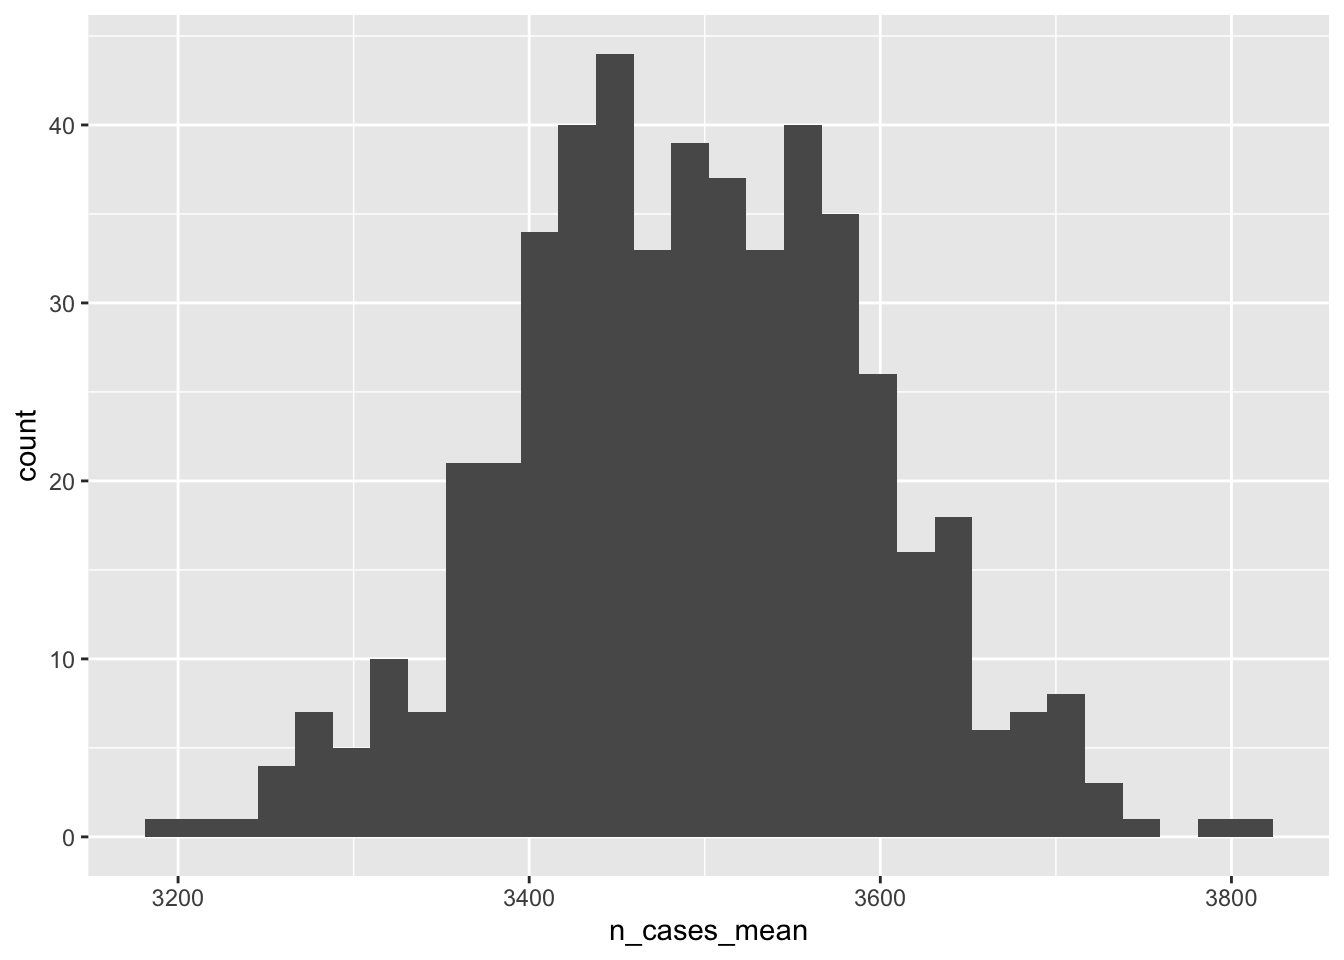
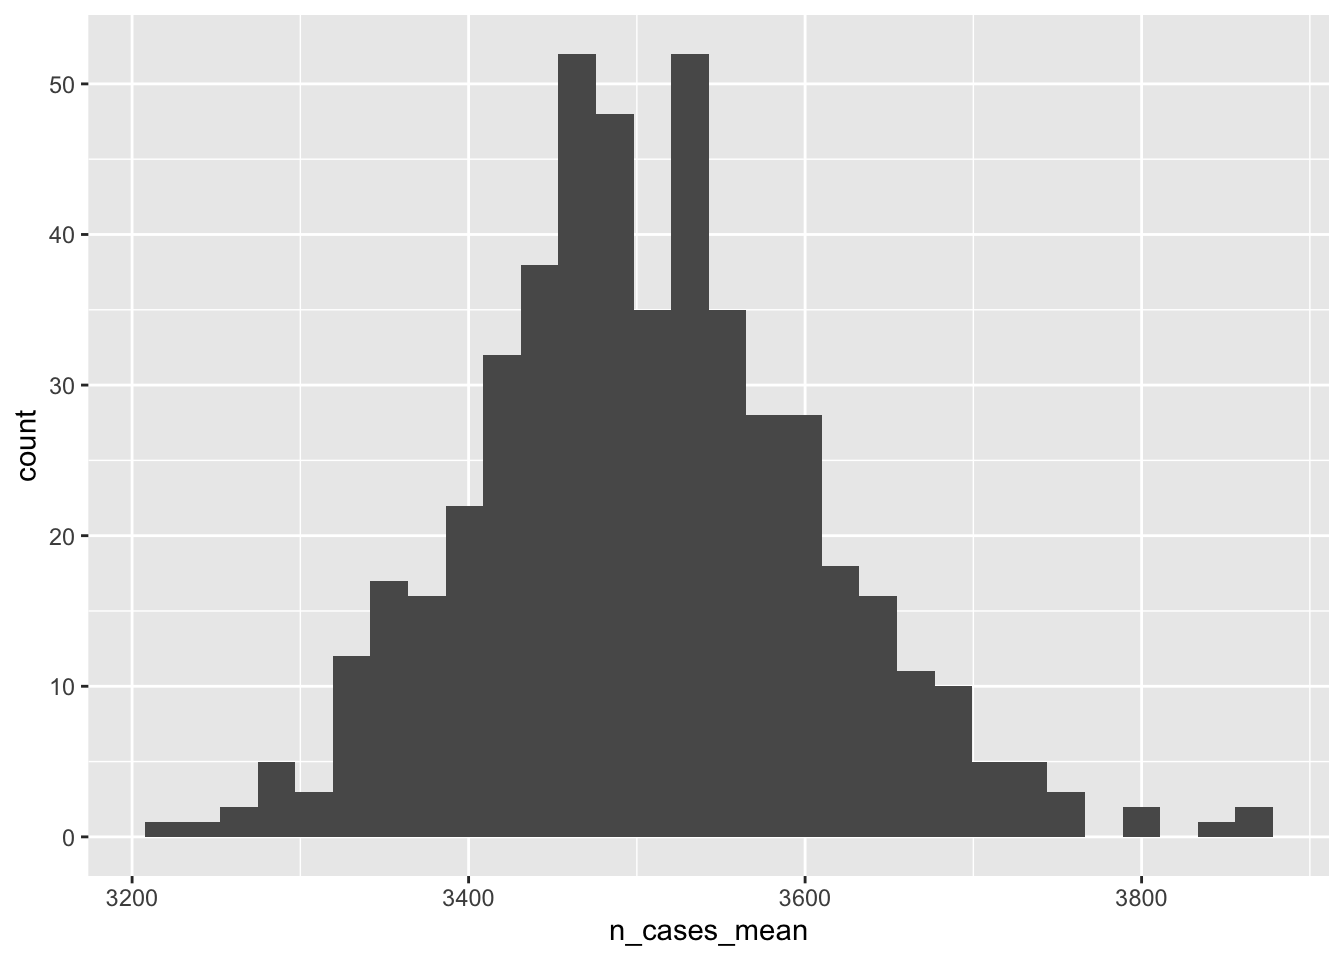
update boot module

diff --git a/docs/5-monte-carlo-boot-purrr.html b/docs/5-monte-carlo-boot-purrr.html
@@ -404,7 +404,7 @@ div.tocify {
 <div id="monte-carlo-simulations" class="section level2" number="3.1">
 <h2><span class="header-section-number">3.1</span> Monte Carlo simulations</h2>
 <blockquote>
-<p>“Monte Carlo simulation is a method of analysis based on artificially recreating a chance process (usually with a computer), running it many times, and directly observing the results.”</p>
+<p>“Monte Carlo simulation is a method of analysis based on artificially recreating a chance process (usually with a computer), running it many times, and directly observing the results.”<span class="citation"><sup><a href="#ref-barreto" role="doc-biblioref">4</a></sup></span></p>
 </blockquote>
 <p>An important aspect of a traditional Monte Carlo simulation is that the distribution (i.e., its mean and variance) of each individual source of uncertainty is specified by the analyst. It is not estimated from the data. Monte Carlo simulations are useful to propagate multiple sources of variation throughout an analysis pipeline to assess the impact of all sources of uncertainty on the final result. And, as noted, they’re especially helpful compared with traditional (non-computer-based) statistical methods when those sources of variation are correlated with one another.</p>
 </div>
@@ -412,9 +412,9 @@ div.tocify {
 <h2><span class="header-section-number">3.2</span> Bootstrapping</h2>
 <p>Monte Carlo simulation in its typical implementation cannot, however, directly estimate the sampling distribution. But bootstrapping can.</p>
 <blockquote>
-<p>In statistics…, bootstrapping has come to mean to resampling [with replacement] repeatedly and randomly from an original, initial sample using each bootstrapped sample to compute a statistic. The resulting empirical distribution of the statistic is then examined and interpreted as an approximation to the true sampling distribution.</p>
+<p>“In statistics…, bootstrapping has come to mean to resampling [with replacement] repeatedly and randomly from an original, initial sample using each bootstrapped sample to compute a statistic. The resulting empirical distribution of the statistic is then examined and interpreted as an approximation to the true sampling distribution.”<span class="citation"><sup><a href="#ref-barreto2005" role="doc-biblioref">5</a></sup></span></p>
 </blockquote>
-<p>The bootstrap was introduced by Brad Efron in the late 1970s. There are many forms of bootstrapping, including ways to bootstrap residuals from regression models.<span class="citation"><sup><a href="#ref-efron2016" role="doc-biblioref">4</a></sup></span> The most essential is simply re-sampling entire observations from the sample, summarizing each new sample, and using the distribution of those summary statistics to infer the sampling distribution.</p>
+<p>The bootstrap was introduced by Brad Efron in the late 1970s.<span class="citation"><sup><a href="#ref-bootstra2022b" role="doc-biblioref">6</a></sup></span> There are many forms of bootstrapping, including ways to bootstrap residuals from regression models.<span class="citation"><sup><a href="#ref-efron2016" role="doc-biblioref">7</a></sup></span> The most essential is simply re-sampling entire observations from the sample, summarizing each new sample, and using the distribution of those summary statistics to infer the sampling distribution.</p>
 <p>It is certainly similar to Monte Carlo techniques and might be viewed as a subset thereof. The key difference is that the bootstrap estimates a distribution using data we have, and the Monte Carlo technique described above</p>
 </div>
 </div>
@@ -422,7 +422,7 @@ div.tocify {
 <h1><span class="header-section-number">4</span> Example code for each method using <code>purrr::map_dfr()</code></h1>
 <div id="monte-carlo-simulation" class="section level2" number="4.1">
 <h2><span class="header-section-number">4.1</span> Monte Carlo simulation</h2>
-<p>Suppose we have a state with 100 counties. We simulate one single dataset, specifying that the mean county population is 1,000 and the probability of the a demographic variable (dem) is 0.5. The prevalence (<code>prev</code>)depends in part on pop and dem, and the number of cases in the county is estimated from pop and prev.</p>
+<p>Suppose we have a state with 100 counties. We simulate one single dataset, specifying that the mean county population is 1,000 and the probability of a binary demographic variable (<code>dem</code>; say urban versus rural) is 0.5. The prevalence (<code>prev</code>) depends in part on <code>pop</code> and <code>dem</code>, and the number of cases in the county is estimated from <code>pop</code> and <code>prev</code>.</p>
 <pre class="r"><code>library(tidyverse)
 library(truncnorm)
 set.seed(11)#set the seed so this dataset is always the same.
@@ -431,9 +431,9 @@ monte_carlo_sim_frozen = 1:100 %&gt;%
   rename(county_id = value) %&gt;% 
   mutate(
     state = 1,
-    pop = rpois(n=n(), lambda=10000), #mean = var=1000
-    dem = rbinom(n=n(), size=1, prob =.5),
-    prev = rtruncnorm(
+    pop = rpois(n=n(), lambda=10000), #poisson dist. mean = var=1000
+    dem = rbinom(n=n(), size=1, prob =.5), #binomial dist.
+    prev = rtruncnorm( #truncated normal
       n=n(), 
       a=0, 
       b=1,
@@ -458,20 +458,27 @@ monte_carlo_sim_frozen</code></pre>
 ## 10        10     1  9995     0 0.281    2804
 ## # … with 90 more rows
 ## # ℹ Use `print(n = ...)` to see more rows</code></pre>
-<p>What is the mean and standard deviation number of cases per county?</p>
+<p>What is the mean and standard deviation number of cases per county? Note we have not run any replications yet. This is just <em>one iteration</em> of the theoretical dataset of counties in a state.</p>
 <pre class="r"><code>monte_carlo_sim_frozen %&gt;% 
   group_by(state) %&gt;% 
   summarise(
     n_cases_mean = mean(n_cases),
-    n_cases_sd = sd(n_cases))</code></pre>
+    n_cases_sd = sd(n_cases)) %&gt;% 
+  ungroup()</code></pre>
 <pre><code>## # A tibble: 1 × 3
 ##   state n_cases_mean n_cases_sd
 ##   &lt;dbl&gt;        &lt;dbl&gt;      &lt;dbl&gt;
 ## 1     1        3512.       736.</code></pre>
+<p>What is the distribution of the number of cases between counties in the state for this one replication?</p>
+<pre class="r"><code>monte_carlo_sim_frozen %&gt;% 
+  ggplot(aes(n_cases))+
+  geom_histogram()</code></pre>
+<pre><code>## `stat_bin()` using `bins = 30`. Pick better value with `binwidth`.</code></pre>
+<p><img src="5-monte-carlo-boot-purrr_files/figure-html/unnamed-chunk-3-1.png" width="672" /></p>
 <div id="define-a-function-for-replications" class="section level3" number="4.1.1">
 <h3><span class="header-section-number">4.1.1</span> Define a function for replications</h3>
-<p>Now let’s randomly vary some things based on the frozen dataset. That dataset itself was created randomly, but let’s pretend that it is frozen and not changing now. In this code, we will create a function that will create new variables that will change.</p>
-<p>Create a function for the creation of this dataset, run it 500 times, and find the mean of the means over those 500 iterations. The argument for this function is <code>rep_id_val</code>. I create a new variable called <code>rep_id</code>, and in each iteration, that variable takes <code>rep_id_val</code>.</p>
+<p>Now let’s randomly vary values of the variables over several replications. In this code, we will create a function that will create new variables that will change.</p>
+<p>Create a function for the creation of this dataset, run it 500 times, and find the mean of the means over those 500 iterations. The argument our function takes is <code>rep_id_val</code>. Its value is in the <code>mutate()</code> step to create a variable called <code>rep_id</code>.</p>
 <pre class="r"><code>monte_carlo_sim_fun = function(rep_id_val){
   monte_carlo_sim_df = 1:100 %&gt;% 
     as_tibble() %&gt;% 
@@ -490,14 +497,15 @@ monte_carlo_sim_frozen</code></pre>
     rep_id = rep_id_val  #add replication ID
   )
 }</code></pre>
-<p>Define the number of replications. We are creating an integer vector to be iterated through.</p>
+<p>Define the number of replications. Here, we are creating an integer vector ranging from 1 to 500.</p>
 <pre class="r"><code>rep_id_val_list = 1:500
 class(rep_id_val_list)</code></pre>
 <pre><code>## [1] &quot;integer&quot;</code></pre>
 </div>
 <div id="run-the-replications" class="section level3" number="4.1.2">
 <h3><span class="header-section-number">4.1.2</span> Run the replications</h3>
-<p>Simulate 500 versions of this state, each time generating new counties randomly varying according to the distribution above. We use <code>map_dfr()</code> from the purrr package to run th code and then stack the results on top of one another. Note the unusual structure of this code. The function we created above, <code>monte_carlo_sim_fun(),</code> is inside <code>map_dfr()</code>, and the list of replication ids, <code>rep_id_val_list,</code> begins the pipe sequence.</p>
+<p>Simulate 500 versions of this state. In each replication, the values for the variables <code>pop</code>, <code>dem</code>, <code>prev</code>, and <code>n_cases</code> randomly vary according to their specified distribution. We use <code>map_dfr()</code> from the <a href="https://purrr.tidyverse.org/">purrr</a> package to run the simulation and then stack the results on top of one another, akin to <code>mutate::bind_rows()</code>.</p>
+<p>Take note the unusual structure of this code. The function we created above, <code>monte_carlo_sim_fun(),</code> is inside <code>map_dfr()</code>, and the list of replication ids, <code>rep_id_val_list,</code> begins the pipe sequence.</p>
 <pre class="r"><code>library(purrr) #make sure it&#39;s attached
 set.seed(NULL) #allow it to vary differently each time.
 monte_carlo_sim_lots  = rep_id_val_list %&gt;% 
@@ -507,16 +515,16 @@ monte_carlo_sim_lots  = rep_id_val_list %&gt;%
 <pre><code>## # A tibble: 50,000 × 7
 ##    county_id state   pop   dem  prev n_cases rep_id
 ##        &lt;int&gt; &lt;dbl&gt; &lt;int&gt; &lt;int&gt; &lt;dbl&gt;   &lt;int&gt;  &lt;int&gt;
-##  1         1     1  9685     0 0.278    2688      1
-##  2         2     1 10215     1 0.461    4712      1
-##  3         3     1  9916     1 0.392    3889      1
-##  4         4     1  9944     1 0.356    3538      1
-##  5         5     1  9976     1 0.466    4647      1
-##  6         6     1 10030     1 0.398    3995      1
-##  7         7     1  9859     0 0.260    2566      1
-##  8         8     1  9894     1 0.459    4545      1
-##  9         9     1 10055     1 0.440    4424      1
-## 10        10     1  9974     0 0.115    1145      1
+##  1         1     1 10012     0 0.148    1486      1
+##  2         2     1 10064     0 0.287    2890      1
+##  3         3     1 10023     0 0.352    3528      1
+##  4         4     1  9816     0 0.279    2741      1
+##  5         5     1  9897     0 0.369    3647      1
+##  6         6     1  9959     1 0.391    3892      1
+##  7         7     1  9961     0 0.347    3454      1
+##  8         8     1 10079     0 0.323    3260      1
+##  9         9     1  9843     1 0.292    2870      1
+## 10        10     1  9930     0 0.280    2783      1
 ## # … with 49,990 more rows
 ## # ℹ Use `print(n = ...)` to see more rows</code></pre>
 <p>How many rows?</p>
@@ -528,19 +536,19 @@ monte_carlo_sim_lots  = rep_id_val_list %&gt;%
 </div>
 <div id="summarize-results" class="section level3" number="4.1.3">
 <h3><span class="header-section-number">4.1.3</span> Summarize results</h3>
-<p>What’s the distribution of <code>n_cases_mean</code> over Monte Carlo replications?</p>
+<p>What’s the distribution of <code>n_cases_mean</code> over Monte Carlo replications? This is not the variability of the number of cases within the state between counties but rather the variability of the mean number of county-level cases for the state between replications.</p>
 <pre class="r"><code>monte_carlo_sim_lots %&gt;% 
   group_by(rep_id,state) %&gt;% 
   summarise(
     n_cases_mean = mean(n_cases),
     n_cases_sd = sd(n_cases)) %&gt;% 
-  ggplot(aes( n_cases_mean))+
+  ggplot(aes(n_cases_mean))+
   geom_histogram()</code></pre>
 <pre><code>## `summarise()` has grouped output by &#39;rep_id&#39;. You can override using the
 ## `.groups` argument.
 ## `stat_bin()` using `bins = 30`. Pick better value with `binwidth`.</code></pre>
-<p><img src="5-monte-carlo-boot-purrr_files/figure-html/unnamed-chunk-9-1.png" width="672" /></p>
-<p>What is the 2.5th, 50th (median), and 97.5th percentile of the mean number of cases for each county? This could be used to report a confidence interval around the estimated median number of cases.</p>
+<p><img src="5-monte-carlo-boot-purrr_files/figure-html/unnamed-chunk-10-1.png" width="672" /></p>
+<p>What is the 2.5th, 50th (median), and 97.5th percentile of the mean number of cases between replications? This could be used to report a confidence interval around that estimated mean.</p>
 <pre class="r"><code>monte_carlo_sim_lots %&gt;% 
   group_by(rep_id,state) %&gt;% #group by both rep id and state
   summarise(
@@ -558,12 +566,12 @@ monte_carlo_sim_lots  = rep_id_val_list %&gt;%
 <pre><code>## # A tibble: 1 × 4
 ##   state n_cases_mean_ll n_cases_mean_med n_cases_mean_ul
 ##   &lt;dbl&gt;           &lt;dbl&gt;            &lt;dbl&gt;           &lt;dbl&gt;
-## 1     1           3286.            3493.           3698.</code></pre>
+## 1     1           3305.            3495.           3704.</code></pre>
 </div>
 </div>
 <div id="bootstrap" class="section level2" number="4.2">
 <h2><span class="header-section-number">4.2</span> Bootstrap</h2>
-<p>Now let’s bootstrap <code>monte_carlo_sim_frozen</code>, again supposing that even though it was generated randomly, it is now frozen in sample and can be viewed as a single sample. We will then re-sample it <strong>with replacement</strong> with sampling probability of 1, meaning all rows will be re-sampled. This means that, in a given sample, some counties will repeat, and some will not appear at all.</p>
+<p>Now let’s bootstrap <code>monte_carlo_sim_frozen</code>, again supposing that even though it was generated randomly, it is now viewed as a single frozen sample - the one we drew and have access to. We can estimate the sampling distribution by re-sampling it <strong>with replacement</strong> with sampling probability of 1, meaning all rows will be re-sampled. This means that, in a given sample, some counties will repeat, and some will not appear at all.</p>
 <p>Here’s one example:</p>
 <pre class="r"><code>monte_carlo_sim_one_boot = monte_carlo_sim_frozen %&gt;% 
   slice_sample(prop=1,replace=TRUE)</code></pre>
@@ -572,23 +580,23 @@ monte_carlo_sim_lots  = rep_id_val_list %&gt;%
 <pre><code>## # A tibble: 100 × 6
 ##    county_id state   pop   dem  prev n_cases
 ##        &lt;int&gt; &lt;dbl&gt; &lt;int&gt; &lt;int&gt; &lt;dbl&gt;   &lt;int&gt;
-##  1        19     1 10000     0 0.439    4385
-##  2        37     1 10021     1 0.375    3760
-##  3        96     1  9936     0 0.432    4291
-##  4        58     1 10015     0 0.206    2063
-##  5        31     1 10002     0 0.274    2735
-##  6        61     1  9910     1 0.468    4636
-##  7        54     1 10045     0 0.349    3504
-##  8        44     1  9948     0 0.306    3047
-##  9        95     1  9891     0 0.283    2795
-## 10         5     1 10132     0 0.297    3005
+##  1        65     1  9910     0 0.331    3280
+##  2        64     1  9909     0 0.347    3437
+##  3        46     1  9915     0 0.317    3147
+##  4        26     1  9913     1 0.336    3334
+##  5        68     1 10085     0 0.373    3760
+##  6        72     1 10051     0 0.216    2172
+##  7        61     1  9910     1 0.468    4636
+##  8        67     1 10035     1 0.459    4605
+##  9        57     1  9956     1 0.414    4120
+## 10        47     1  9904     0 0.278    2753
 ## # … with 90 more rows
 ## # ℹ Use `print(n = ...)` to see more rows</code></pre>
 <p>As expected, we have the same number of rows, but fewer unique values for <code>county_id.</code> Some are repeating.</p>
 <pre class="r"><code>nrow(monte_carlo_sim_one_boot)</code></pre>
 <pre><code>## [1] 100</code></pre>
 <pre class="r"><code>n_distinct(monte_carlo_sim_one_boot$county_id)</code></pre>
-<pre><code>## [1] 61</code></pre>
+<pre><code>## [1] 65</code></pre>
 <p>Repeat this bootstrap procedure 500 times by first writing a function and then iterating replications through that function using <code>purrr::map_dfr()</code></p>
 <div id="define-a-function-for-replications-1" class="section level3" number="4.2.1">
 <h3><span class="header-section-number">4.2.1</span> Define a function for replications</h3>
@@ -600,7 +608,7 @@ monte_carlo_sim_lots  = rep_id_val_list %&gt;%
 </div>
 <div id="run-the-replications-1" class="section level3" number="4.2.2">
 <h3><span class="header-section-number">4.2.2</span> Run the replications</h3>
-<p>Simulate 500 versions of this state, each time generating new counties randomly varying according to the distribution above. We use <code>map_dfr()</code> from the purrr package to run the function and then stack the results on top of one another. Note the unusual structure of this code. The function we created above, <code>monte_carlo_sim_fun(),</code> is inside <code>map_dfr()</code>, and the list of replication ids, <code>rep_id_val_list,</code> begins the pipe sequence.</p>
+<p>Simulate 500 versions of this re-sampling. We again use <code>map_dfr()</code> from the purrr package to run the function and then stack the results on top of one another. Note the unusual structure of this code. The function we created above, <code>monte_carlo_sim_fun(),</code> is inside <code>map_dfr()</code>, and the list of replication ids, <code>rep_id_val_list,</code> begins the pipe sequence.</p>
 <pre class="r"><code>boot_lots  = rep_id_val_list %&gt;% 
   map_dfr(boot_fun) </code></pre>
 </div>
@@ -610,16 +618,16 @@ monte_carlo_sim_lots  = rep_id_val_list %&gt;%
 <pre><code>## # A tibble: 50,000 × 7
 ##    county_id state   pop   dem  prev n_cases rep_id
 ##        &lt;int&gt; &lt;dbl&gt; &lt;int&gt; &lt;int&gt; &lt;dbl&gt;   &lt;int&gt;  &lt;int&gt;
-##  1        19     1 10000     0 0.439    4385      1
-##  2        76     1 10019     0 0.345    3458      1
-##  3        15     1  9842     0 0.274    2692      1
-##  4        70     1  9897     1 0.398    3936      1
-##  5        67     1 10035     1 0.459    4605      1
-##  6        84     1 10247     0 0.320    3282      1
-##  7        22     1  9901     1 0.408    4036      1
-##  8        72     1 10051     0 0.216    2172      1
-##  9        70     1  9897     1 0.398    3936      1
-## 10        54     1 10045     0 0.349    3504      1
+##  1        26     1  9913     1 0.336    3334      1
+##  2        28     1 10154     1 0.439    4454      1
+##  3         8     1  9995     1 0.514    5134      1
+##  4        47     1  9904     0 0.278    2753      1
+##  5        88     1 10059     1 0.341    3428      1
+##  6        11     1  9885     1 0.391    3868      1
+##  7        40     1  9936     0 0.261    2591      1
+##  8        52     1  9995     0 0.218    2178      1
+##  9        21     1  9985     0 0.238    2377      1
+## 10        35     1  9781     0 0.332    3244      1
 ## # … with 49,990 more rows
 ## # ℹ Use `print(n = ...)` to see more rows</code></pre>
 <p>What’s the distribution of <code>n_cases_mean</code> over bootstrap replications?</p>
@@ -633,7 +641,8 @@ monte_carlo_sim_lots  = rep_id_val_list %&gt;%
 <pre><code>## `summarise()` has grouped output by &#39;rep_id&#39;. You can override using the
 ## `.groups` argument.
 ## `stat_bin()` using `bins = 30`. Pick better value with `binwidth`.</code></pre>
-<p><img src="5-monte-carlo-boot-purrr_files/figure-html/unnamed-chunk-17-1.png" width="672" /></p>
+<p><img src="5-monte-carlo-boot-purrr_files/figure-html/unnamed-chunk-18-1.png" width="672" /></p>
+<p>We can use the empirical distribution of resampled results to estimate a confidence interval for the sampling distribution. This is a confidence interval for the estimated mean number of cases in the state</p>
 <pre class="r"><code>boot_lots %&gt;% 
   group_by(rep_id,state) %&gt;% #group by both rep id and state
   summarise(
@@ -651,7 +660,12 @@ monte_carlo_sim_lots  = rep_id_val_list %&gt;%
 <pre><code>## # A tibble: 1 × 4
 ##   state n_cases_mean_ll n_cases_mean_med n_cases_mean_ul
 ##   &lt;dbl&gt;           &lt;dbl&gt;            &lt;dbl&gt;           &lt;dbl&gt;
-## 1     1           3367.            3512.           3638.</code></pre>
+## 1     1           3362.            3515.           3650.</code></pre>
+</div>
+</div>
+</div>
+<div id="summary-of-monte-carlo-simulations-and-bootstrapping" class="section level1" number="5">
+<h1><span class="header-section-number">5</span> Summary of Monte Carlo simulations and bootstrapping</h1>
 <p>Advantages of these computation-based simulation methods</p>
 <ul>
 <li><p>Makes explicit where the variation is coming from and aids in intuition.</p></li>
@@ -669,8 +683,6 @@ monte_carlo_sim_lots  = rep_id_val_list %&gt;%
 <li>Summarize the distribution of the results. Conventionally, take the median, 2.5th, and 97.5th percentile.</li>
 </ol>
 </div>
-</div>
-</div>
 <div id="references" class="section level1 unnumbered">
 <h1><strong>References</strong></h1>
 <div id="refs" class="references csl-bib-body">
@@ -683,8 +695,17 @@ monte_carlo_sim_lots  = rep_id_val_list %&gt;%
 <div id="ref-garber2022" class="csl-entry">
 <div class="csl-left-margin">3. </div><div class="csl-right-inline">Garber MD, Flanders WD, Watkins KE, Lobelo RLF, Kramer MR, McCullough LE. Have paved trails and protected bike lanes led to more bicycling in atlanta? A generalized synthetic-control analysis. <em>Epidemiology</em>. 2022;33(4):493-504. doi:<a href="https://doi.org/10.1097/EDE.0000000000001483">10.1097/EDE.0000000000001483</a></div>
 </div>
+<div id="ref-barreto" class="csl-entry">
+<div class="csl-left-margin">4. </div><div class="csl-right-inline">Barreto H, Howland FM. Chapter 9: Monte Carlo Simulation. <a href="https://www.cambridge.org/us/academic/subjects/economics/econometrics-statistics-and-mathematical-economics/introductory-econometrics-using-monte-carlo-simulation-microsoft-excel, https://www.cambridge.org/us/academic/subjects/economics/econometrics-statistics-and-mathematical-economics">https://www.cambridge.org/us/academic/subjects/economics/econometrics-statistics-and-mathematical-economics/introductory-econometrics-using-monte-carlo-simulation-microsoft-excel, https://www.cambridge.org/us/academic/subjects/economics/econometrics-statistics-and-mathematical-economics</a></div>
+</div>
+<div id="ref-barreto2005" class="csl-entry">
+<div class="csl-left-margin">5. </div><div class="csl-right-inline">Barreto H, Howland FM. Chapter 23: Bootstrap. In:; 2005. <a href="http://www3.wabash.edu/econometrics/EconometricsBook/chap23.htm">http://www3.wabash.edu/econometrics/EconometricsBook/chap23.htm</a></div>
+</div>
+<div id="ref-bootstra2022b" class="csl-entry">
+<div class="csl-left-margin">6. </div><div class="csl-right-inline">Bootstrapping (statistics). Published online July 24, 2022. <a href="https://en.wikipedia.org/w/index.php?title=Bootstrapping_(statistics)&amp;oldid=1100235056">https://en.wikipedia.org/w/index.php?title=Bootstrapping_(statistics)&amp;oldid=1100235056</a></div>
+</div>
 <div id="ref-efron2016" class="csl-entry">
-<div class="csl-left-margin">4. </div><div class="csl-right-inline">Efron B, Hastie T. <em>Computer Age Statistical Inference: Algorithms, Evidence, and Data Science</em>. Cambridge University Press; 2016.</div>
+<div class="csl-left-margin">7. </div><div class="csl-right-inline">Efron B, Hastie T. <em>Computer Age Statistical Inference: Algorithms, Evidence, and Data Science</em>. Cambridge University Press; 2016.</div>
 </div>
 </div>
 </div>
